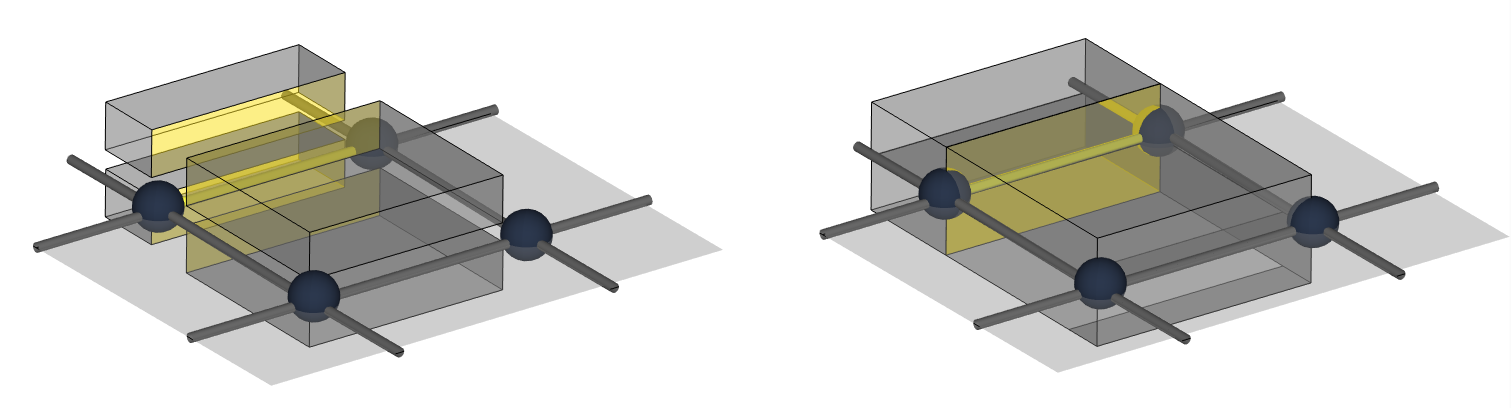
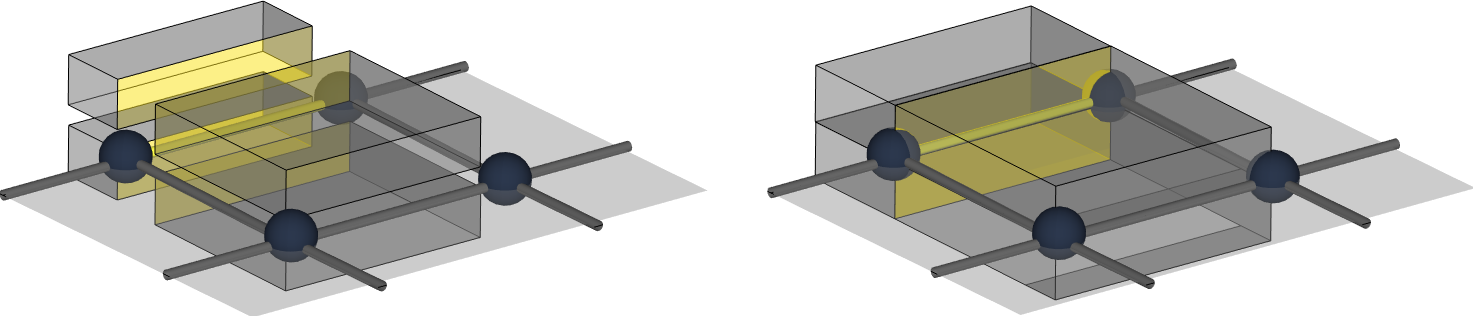
seventh

diff --git a/Slides/9_echafaudage.html b/Slides/9_echafaudage.html
@@ -1,27 +1,20 @@
 <div>
 	Construction de l'échafaudage
 	<hr style="width: 70%; display:flex; justify-content:space-evenly;">
+	Embranchements
 	<div class="r-hstack">  
-		<div class="r-hstack">  
-			<div class="r-vstack">
-				<div class="r-frame">  
-					<img src="Images/SOTA/polycubes.png" height="200px" style="padding-right: 10%; margin: 0px;">
-					<p style="font-size:12px; margin-top: 0px;"><b>Polycubes</b></br>[Pietroni et al. 2022]</p>
-				</div>
-				<div class="r-frame">  
-					<img src="Images/SOTA/decomposition.png" height="200px" style="padding-right: 0%; margin: 0px;">
-					<p style="font-size:12px; margin-top: 0px;"><b>Décomposition</b></br>[Takayama, 2019]</p>
-				</div>
+		<div class="r-vstack">
+			<div class="r-frame">  
+				<img src="Images/Echafaudage/branching0.png" height="180px" style="padding-right: 10%; margin: 0px;">
+				<img src="Images/Echafaudage/branching1.png" height="180px" style="padding-right: 0%; margin: 0px;">
+				<p style="font-size:22px; margin-top: 0px;">branches</p>
 			</div>
-			<div class="r-vstack">
-				<div class="r-frame">  
-					<img src="Images/SOTA/field.png" height="200px" style="padding-right: 10%; margin: 0px;">
-					<p style="font-size:12px; margin-top: 0px;"><b>Frame field</b></br>[Liu et al. 2018]</p>
-				</div>
-				<div class="r-frame">  
-					<img src="Images/SOTA/octree.png" height="200px" style="padding-right: 0%; margin: 0px;">
-					<p style="font-size:12px; margin-top: 0px;"><b>Octree</b></br>[Livesu et al. 2021]</p>
-				</div>
+		</div>
+		<div class="r-vstack">
+			<div class="r-frame">  
+				<img src="Images/Echafaudage/branching3.png" height="180px" style="padding-right: 10%; margin: 0px;">
+				<img src="Images/Echafaudage/branching2.png" height="180px" style="padding-right: 0%; margin: 0px;">
+				<p style="font-size:22px; margin-top: 0px;">branches-feuillets</p>
 			</div>
 		</div>
 	</div>

diff --git a/index.html b/index.html
@@ -49,7 +49,6 @@
 
 				
 				<!-- Intro -->
-				<section id="Echaf0" include-slide="./Slides/9_echafaudage.html"></section>
 				<section id="Title" include-slide="./Slides/0_titre.html" data-visibility="uncounted"></section>
 				<section id="HexMesh" include-slide="./Slides/1_hexmesh.html"></section>
 				<section id="Methodes" include-slide="./Slides/2_methodes.html"></section>
@@ -59,6 +58,17 @@
 				<section id="Blocs" include-slide="./Slides/6_construction_blocs.html"></section>
 				<section id="Adaptation" include-slide="./Slides/7_adaptation.html"></section>
 				<section id="Analyse" include-slide="./Slides/8_analyse.html"></section>
+				<section id="Echaf0" include-slide="./Slides/9_echafaudage.html"></section>
+				<section id="Echaf1" include-slide="./Slides/10_echafaudage.html"></section>
+				<section id="Geometry" include-slide="./Slides/11_propagation.html"></section>
+				<section id="Volumes" include-slide="./Slides/12_insertion.html"></section>
+				<section id="Coutures" include-slide="./Slides/13_coutures.html"></section>
+				<section id="Echaf0" include-slide="./Slides/14_brut.html"></section>
+				<section id="Result0" include-slide="./Slides/15_resultat.html"></section>
+				<section id="Result1" include-slide="./Slides/16_resultats.html"></section>
+				<section id="Contributions" include-slide="./Slides/17_contributions.html"></section>
+				<section id="Limites" include-slide="./Slides/18_limites.html"></section>
+				<section id="Fin" include-slide="./Slides/19_fin.html"></section>
 
 				<!-- <section include-slide=""></section> -->
 				<!-- <section include-slide=""></section> -->

diff --git a/Slides/7_adaptation.html b/Slides/7_adaptation.html
@@ -1,14 +1,20 @@
 <div>
-	&#xC9;léments de construction
+	Adaptation du squelette
 	<hr style="width: 70%; display:flex; justify-content:space-evenly;">
-	<div class="r-vstack">
+	<div class="r-hstack">
 		<div class="r-frame">  
-			<img src="Images/Adaptation/adaptation.png" width="700px" style="padding-right: 0%; margin: 0px;">
-			<p style="font-size:25px; margin-top: -10px;">Taille des palettes</p>
+			<img src="Images/Adaptation/adaptation2.png" height="480px" style="padding-right: 0%; margin: 0px;">
+			<p style="font-size:25px; margin-top: -10px;">Taille des tronçons</p>
 		</div>
-		<div class="r-frame">  
-			<img src="Images/Adaptation/regularity.png" width="700px" style="padding-right: 0%; margin: 0px;">
-			<p style="font-size:25px; margin-top: -10px;">Régularité des sommets</p>
+		<div class="r-vstack" style="padding-left: 3%; margin: 0px;">
+			<div class="r-frame">  
+				<img src="Images/Adaptation/adaptation.png" width="600px" style="padding-right: 0%; margin: 0px;">
+				<p style="font-size:25px; margin-top: -10px;">Taille des palettes</p>
+			</div>
+			<div class="r-frame">  
+				<img src="Images/Adaptation/regularity.png" width="600px" style="padding-right: 0%; margin: 0px;">
+				<p style="font-size:25px; margin-top: -10px;">Régularité des sommets</p>
+			</div>
 		</div>
 	</div>
 </div>

diff --git a/Slides/10_echafaudage.html b/Slides/10_echafaudage.html
@@ -1,0 +1,21 @@
+<div>
+	Construction de l'échafaudage
+	<hr style="width: 70%; display:flex; justify-content:space-evenly;">
+	Extrémités et articulations
+	<div class="r-hstack">  
+		<div class="r-vstack">
+			<div class="r-frame">  
+				<img src="Images/Echafaudage/joint3.png" height="180px" style="padding-right: 10%; margin: 0px;">
+				<img src="Images/Echafaudage/joint2.png" height="180px" style="padding-right: 0%; margin: 0px;">
+				<p style="font-size:22px; margin-top: 0px;">Pas de géométrie</p>
+			</div>
+		</div>
+		<div class="r-vstack">
+			<div class="r-frame">  
+				<img src="Images/Echafaudage/joint1.png" height="180px" style="padding-right: 10%; margin: 0px;">
+				<img src="Images/Echafaudage/joint0.png" height="180px" style="padding-right: 0%; margin: 0px;">
+				<p style="font-size:22px; margin-top: 0px;">Géométrie contrainte</p>
+			</div>
+		</div>
+	</div>
+</div>

diff --git a/Slides/18_limites.html b/Slides/18_limites.html
@@ -1,0 +1,23 @@
+<div>
+	Limites et perspectives
+	<hr style="width: 70%; display:flex; justify-content:space-evenly;">
+	<div class="r-hstack">  
+		<img src="Images/Utils/remeshing.png" height="250" style="margin: 0px;">
+		<ul style="font-size: 25px;">
+			<li style="padding-top: 0px;">Qualité dépendante du squelette</li>
+			<ul style="font-size: 22px;">
+				<li style="padding-top: 0px;">Extraction</li>
+				<li style="padding-top: 0px;">Adaptation</li>
+			</ul>
+			<li style="padding-top: 14px;">Choix cas 1D ou 2D</li>
+			<ul style="font-size: 22px;">
+				<li style="padding-top: 0px;">Tester sur plus de données</li>
+			</ul>
+			<li style="padding-top: 14px;">Cas incompatibles</li>
+			<ul style="font-size: 22px;">
+				<li style="padding-top: 0px;">Tester sur plus de donner</li>
+				<li style="padding-top: 0px;">Remailler les feuillets</li>
+			</ul>
+		</ul>
+	</div>
+</div>

diff --git a/Slides/17_contributions.html b/Slides/17_contributions.html
@@ -1,0 +1,25 @@
+<div id="ID">
+	Contributions
+	<hr style="width: 70%; display:flex; justify-content:space-evenly;">
+	<div class="r-hstack">
+		<canvas class="r-frame" id="hexmesh_holes" width="350" height="350" ></canvas>
+		<ul style="font-size: 25px;">
+			<li style="padding-top: 0px;">Algorithme basé squelette 2D :</li>
+			<ul style="font-size: 22px;">
+				<li style="padding-top: 0px;">Garanti hexaédrique</li>
+				<li style="padding-top: 0px;">Aligné à la surface</li>
+				<li style="padding-top: 0px;">Hautement parallèle</li>	
+			</ul>
+			<li style="padding-top: 14px;">Outils :</li>
+			<ul style="font-size: 22px;">
+				<li style="padding-top: 0px;">Pipeline complet</li>
+				<li style="padding-top: 0px;">Outils d'édition et visualisation</li>
+			</ul>
+		</ul>
+	</div>
+	
+
+	<aside class="notes">
+
+	</aside>
+</div>

diff --git a/Slides/16_resultats.html b/Slides/16_resultats.html
@@ -1,0 +1,22 @@
+<div id="Squelettes">
+	Résultats
+	<hr style="width: 70%; display:flex; justify-content:space-evenly;">
+	<div class="r-hstack"> 
+		<div class="r-frame">
+			<canvas id="result_dilo" width="400" height="400"></canvas>
+			<p style="font-size:25px; margin-top: 0px;"><b>Dilo</b>
+				<br>[Nous] SJ: 0.36/0.96, 39232 hex
+				<br>[LPP*20] SJ: 0.55/0.95, 36500 hex</p>
+		</div>
+		<div class="r-frame">
+			<canvas id="result_hand" width="400" height="400"></canvas>
+			<p style="font-size:25px; margin-top: 0px;"><b>Hand</b>
+				<br>[Nous] SJ: 0.62/0.91, 1300 hex
+				<br>[LZS*21] SJ: 0.33/0.72, 3584 hex</p>
+		</div>
+	</div>
+	<!-- <div class="fragment" id="15_show"></div> -->
+
+	<aside class="notes">
+	</aside>
+</div>

diff --git a/Slides/12_insertion.html b/Slides/12_insertion.html
@@ -1,0 +1,18 @@
+<div>
+	Insertion des volumes
+	<hr style="width: 70%; display:flex; justify-content:space-evenly;">
+	<div class="r-vstack">  
+		<div class="r-frame">  
+			<img src="Images/Volumes/chunkco.png" height="130px" style="margin: 0px;">
+			<p style="font-size:22px; margin-top: -10px;">Arête : tronçon</p>
+		</div>
+		<div class="r-frame">  
+			<img src="Images/Volumes/palette_co.png" height="130px" style="margin: 0px;">
+			<p style="font-size:22px; margin-top: -10px;">Face : palette</p>
+		</div>
+		<div class="r-frame">  
+			<img src="Images/Volumes/halfchunkco.png" height="130px" style="margin: 0px;">
+			<p style="font-size:22px; margin-top: -10px;">Bord de feuillet : demi-tronçon</p>
+		</div>
+	</div>
+</div>

diff --git a/Slides/14_brut.html b/Slides/14_brut.html
@@ -1,0 +1,19 @@
+<div id="Squelettes">
+	Maillage Brut
+	<hr style="width: 70%; display:flex; justify-content:space-evenly;">
+	<div class="r-hstack"> 
+		<div class="r-frame">
+			<canvas id="brut_input" width="400" height="400"></canvas>
+			<p style="font-size:25px; margin-top: 0px;">Surface et squelette</p>
+		</div>
+		<img src="Images/Utils/arrow.png" height="80px" style="padding-right: 1%; padding-left: 1%;">
+		<div class="r-frame">
+			<canvas id="brut_output" width="400" height="400"></canvas>
+			<p style="font-size:25px; margin-top: 0px;">Maillage brut</p>
+		</div>
+	</div>
+	<div class="fragment" id="4_show"></div>
+
+	<aside class="notes">
+	</aside>
+</div>

diff --git a/Slides/11_propagation.html b/Slides/11_propagation.html
@@ -1,0 +1,14 @@
+<div>
+	Propagation de la géométrie
+	<hr style="width: 70%; display:flex; justify-content:space-evenly;">
+	<div class="r-hstack">  
+		<div class="r-frame" style="margin-right: 10%;">  
+			<img src="Images/Propagation/rmf.png" height="400" style="padding-right: 10%; margin: 0px;">
+			<p style="font-size:22px; margin-top: 0px;">Branches : <br>RMF depuis les contraintes</p>
+		</div>
+		<div class="r-frame">  
+			<img src="Images/Propagation/leafnorms.png" height="400" style="padding-right: 10%; margin: 0px;">
+			<p style="font-size:22px; margin-top: 0px;">Feuillets :<br>Homogénéisation des normales</p>
+		</div>
+	</div>
+</div>

diff --git a/Slides/15_resultat.html b/Slides/15_resultat.html
@@ -1,0 +1,18 @@
+<div id="Squelettes">
+	Résultats
+	<hr style="width: 70%; display:flex; justify-content:space-evenly;">
+	<div class="r-hstack"> 
+		<div class="r-frame">
+			<canvas id="result_holes0" width="400" height="400"></canvas>
+			<p style="font-size:25px; margin-top: 0px;">SJ: 0.55/0.91 (min/moy)<br>2304 hex</p>
+		</div>
+		<div class="r-frame">
+			<canvas id="result_holes1" width="400" height="400"></canvas>
+			<p style="font-size:25px; margin-top: 0px;">SJ: 0.70/0.94 (min/moy)<br>2432 hex</p>
+		</div>
+	</div>
+	<div class="fragment" id="15_show"></div>
+
+	<aside class="notes">
+	</aside>
+</div>

diff --git a/Slides/13_coutures.html b/Slides/13_coutures.html
@@ -1,0 +1,14 @@
+<div>
+	Coutures des volumes
+	<hr style="width: 70%; display:flex; justify-content:space-evenly;">
+	<div class="r-hstack">  
+		<div class="r-frame" style="margin-right: 10%;">  
+			<img src="Images/Coutures/associationsV.png" height="400" style="margin: 0px;">
+			<p style="font-size:22px; margin-top: 0px;">&#xC9;chafaudages</p>
+		</div>
+		<div class="r-frame">  
+			<img src="Images/Coutures/stitchplateV.png" height="400" style="margin: 0px;">
+			<p style="font-size:22px; margin-top: 0px;">Feuillets</p>
+		</div>
+	</div>
+</div>
